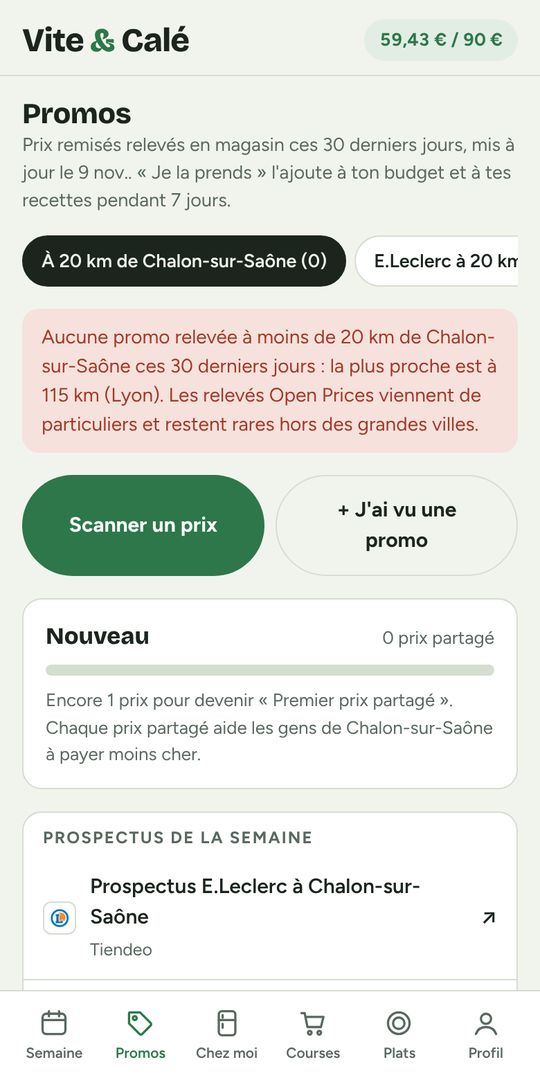
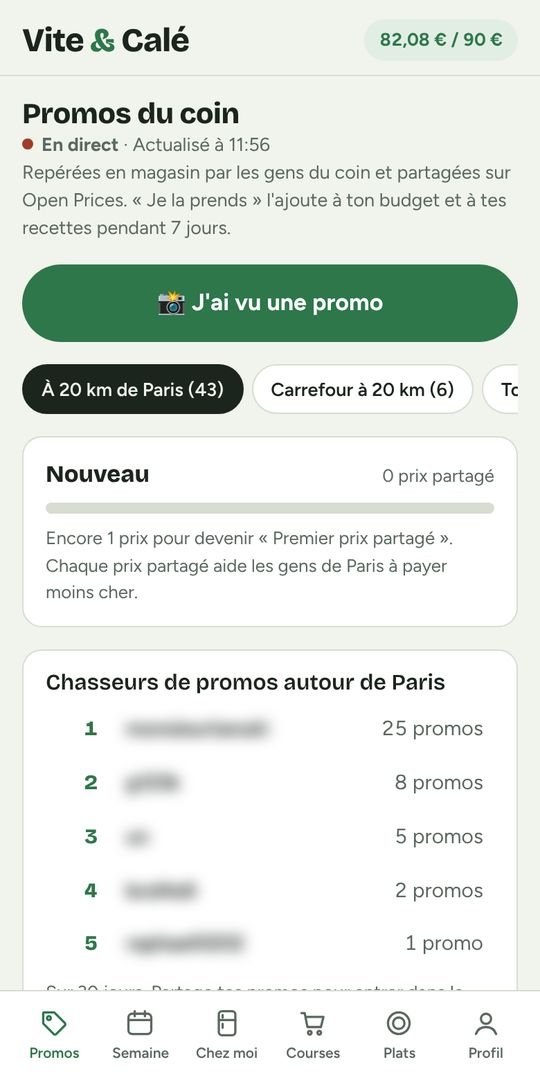
Vite & Calé : partager une promo, inviter ses voisins, page de présentation sur les promos du coin
- Bouton « Partager » sur chaque promo (feuille de partage du téléphone,
  sinon WhatsApp) et « Inviter mes voisins » dans l'onglet Promos.
- Page decouvrir/ réécrite autour des promos repérées par les gens du
  coin, nouvelles captures (pseudos floutés), FAQ sur le partage.

Claude-Session: https://claude.ai/code/session_014T4vfuEkBEnQ5La98L4DQG

diff --git a/vite-et-cale/decouvrir/index.html b/vite-et-cale/decouvrir/index.html
@@ -3,12 +3,12 @@
 <head>
 <meta charset="utf-8">
 <meta name="viewport" content="width=device-width, initial-scale=1, viewport-fit=cover">
-<title>Vite & Calé, bien manger sans se ruiner</title>
-<meta name="description" content="Ta semaine de repas en 1 minute, au prix de ton magasin, dans ton budget. Gratuit, sans compte, en bêta.">
+<title>Vite & Calé, les promos du coin</title>
+<meta name="description" content="Les promos repérées en magasin par les gens du coin, en direct, et ta semaine de repas qui en profite. Gratuit, sans pub, en bêta.">
 <meta name="theme-color" content="#2D774A">
-<meta property="og:title" content="Vite & Calé, bien manger sans se ruiner">
-<meta property="og:description" content="Ta semaine de repas en 1 minute, au prix de ton magasin, dans ton budget. Gratuit, sans compte.">
-<meta property="og:image" content="https://woidih-prog.github.io/copilot/vite-et-cale/decouvrir/img/semaine.jpg">
+<meta property="og:title" content="Vite & Calé, les promos du coin">
+<meta property="og:description" content="Les promos repérées par les gens du coin, en direct, et tes repas qui en profitent. Gratuit, sans pub.">
+<meta property="og:image" content="https://woidih-prog.github.io/copilot/vite-et-cale/decouvrir/img/promos.jpg">
 <meta property="og:type" content="website">
 <link rel="icon" href="../icon-192.png">
 <link rel="apple-touch-icon" href="../icon-192.png">
@@ -136,8 +136,8 @@ footer{padding:40px 0 56px;border-top:1px solid var(--line);margin-top:40px;font
 <main>
 <div class="hero">
   <div class="txt">
-    <h1>Bien manger toute la semaine, <span class="amp">sans dépasser ton budget.</span></h1>
-    <p class="lead">Tu donnes ton magasin et ton budget. En une minute, Vite &amp; Calé te prépare les repas de la semaine, les recettes et la liste de courses au bon prix.</p>
+    <h1>Les promos repérées par les gens du coin. <span class="amp">Et tes repas qui en profitent.</span></h1>
+    <p class="lead">Quelqu'un voit une promo en rayon, il la partage : tout le monde autour la voit tout de suite. Et Vite &amp; Calé s'en sert pour te préparer les repas de la semaine dans ton budget.</p>
     <div class="ctas">
       <a class="btn btn-main" href="../">Essayer l'appli</a>
       <a class="btn btn-ghost" href="#installer">L'installer sur mon téléphone</a>
@@ -146,18 +146,18 @@ footer{padding:40px 0 56px;border-top:1px solid var(--line);margin-top:40px;font
       <li>Gratuit</li><li>Sans compte</li><li>Sans pub</li><li>Rien à télécharger</li>
     </ul>
   </div>
-  <div class="phone"><img src="img/semaine.jpg" width="540" height="1080" alt="L'écran Semaine : 7 jours de repas, le coût de chaque jour et le total sous le budget."></div>
+  <div class="phone"><img src="img/promos.jpg" width="540" height="1080" alt="L'écran Promos du coin : en direct, le bouton J'ai vu une promo et le classement des chasseurs de promos."></div>
 </div>
 
 <section aria-labelledby="t-pb">
   <div class="head">
-    <h2 id="t-pb">« Qu'est-ce qu'on mange ce soir ? »</h2>
-    <p class="muted">La question revient tous les jours. On finit par acheter les mêmes choses, trop cher, ou par commander. Vite &amp; Calé règle ça une fois pour toute la semaine.</p>
+    <h2 id="t-pb">Les bonnes promos, c'est en rayon qu'on les voit.</h2>
+    <p class="muted">Les prospectus ne disent pas ce qui reste vraiment en magasin, ni les petits prix de date courte. Les gens qui font leurs courses, si. Vite &amp; Calé leur donne un endroit pour se les partager.</p>
   </div>
   <div class="chiffres">
-    <div class="chiffre"><b>1 min</b>pour avoir 7 jours de repas variés</div>
+    <div class="chiffre"><b>En direct</b>une promo partagée apparaît tout de suite chez les gens du coin</div>
     <div class="chiffre"><b>100 € = 100 €</b>le budget que tu fixes n'est jamais dépassé</div>
-    <div class="chiffre"><b>75 recettes</b>expliquées pas à pas, en 3 étapes</div>
+    <div class="chiffre"><b>1 min</b>pour avoir 7 jours de repas variés, recettes et liste de courses</div>
   </div>
 </section>
 
@@ -166,12 +166,12 @@ footer{padding:40px 0 56px;border-top:1px solid var(--line);margin-top:40px;font
     <h2 id="t-feat">Ce que fait l'appli</h2>
   </div>
   <div class="feats">
-    <div class="feat"><div class="ico" aria-hidden="true">🗓</div><h3>Ta semaine toute prête</h3><p class="muted">Petit-déj, déjeuner, dîner et goûter. Jamais deux fois le même plat d'affilée, et tu changes ce qui ne te plaît pas d'un geste.</p></div>
-    <div class="feat"><div class="ico" aria-hidden="true">🏷</div><h3>Les prix de ton magasin</h3><p class="muted">Leclerc, Lidl, Carrefour, Intermarché, Auchan… L'appli calcule avec de vrais prix relevés en magasin.</p></div>
-    <div class="feat"><div class="ico" aria-hidden="true">🛒</div><h3>La liste de courses</h3><p class="muted">Tout est regroupé par rayon, avec les quantités justes. Ce que tu as déjà dans ton frigo est retiré.</p></div>
-    <div class="feat"><div class="ico" aria-hidden="true">🔥</div><h3>Les promos du coin, en direct</h3><p class="muted">Repérées en magasin par les gens autour de toi. Tu confirmes d'un 👍, tu partages les tiennes en photo, et ta semaine en profite.</p></div>
-    <div class="feat"><div class="ico" aria-hidden="true">🍲</div><h3>Des plats qu'on mange vraiment</h3><p class="muted">Cuisine de France, du Maghreb, des Antilles, d'Afrique, d'Italie… Tu choisis tes goûts, tes allergies et ce que tu ne manges pas.</p></div>
-    <div class="feat"><div class="ico" aria-hidden="true">⏱</div><h3>Adapté à ta cuisine</h3><p class="muted">Pressé ou pas, four, plaques, micro-ondes ou air fryer : les recettes s'adaptent à ton temps et à ton matériel.</p></div>
+    <div class="feat"><div class="ico" aria-hidden="true">📸</div><h3>Tu vois une promo ? Tu la partages</h3><p class="muted">Une photo de l'étiquette, le prix, et c'est envoyé. Les gens autour la voient aussitôt, avec l'heure et le magasin.</p></div>
+    <div class="feat"><div class="ico" aria-hidden="true">👍</div><h3>Toujours là ?</h3><p class="muted">Un 👍 pour confirmer qu'elle y est encore, un 👎 si elle est finie. On sait combien de personnes l'ont vue.</p></div>
+    <div class="feat"><div class="ico" aria-hidden="true">🏆</div><h3>Les chasseurs de promos du coin</h3><p class="muted">Un classement de celles et ceux qui partagent le plus. Et un bouton pour inviter tes voisins.</p></div>
+    <div class="feat"><div class="ico" aria-hidden="true">🗓</div><h3>Ta semaine en profite</h3><p class="muted">L'appli prépare petit-déj, déjeuner, dîner et goûter dans ton budget, et prend en compte les promos du coin quand elles font baisser le total.</p></div>
+    <div class="feat"><div class="ico" aria-hidden="true">🛒</div><h3>La liste de courses</h3><p class="muted">Rangée par rayon, avec les quantités justes et les prix de ton magasin. Ce que tu as déjà chez toi est retiré.</p></div>
+    <div class="feat"><div class="ico" aria-hidden="true">🍲</div><h3>Des plats qu'on mange vraiment</h3><p class="muted">Cuisine d'ici, du Maghreb, des Antilles, d'Afrique, de La Réunion… expliquée pas à pas, adaptée à ton temps et à ton matériel.</p></div>
   </div>
 </section>
 
@@ -181,10 +181,10 @@ footer{padding:40px 0 56px;border-top:1px solid var(--line);margin-top:40px;font
     <p class="muted">Fais glisser pour voir les écrans.</p>
   </div>
   <div class="galerie">
+    <figure><img src="img/communaute.jpg" width="540" height="1080" loading="lazy" alt="Cartes de promos avec Toujours là ? et Partager"><figcaption>Toujours là ?</figcaption></figure>
     <figure><img src="img/semaine.jpg" width="540" height="1080" loading="lazy" alt="Écran Semaine"><figcaption>Ta semaine</figcaption></figure>
     <figure><img src="img/recette.jpg" width="540" height="1080" loading="lazy" alt="Écran d'une recette en 3 étapes"><figcaption>La recette pas à pas</figcaption></figure>
     <figure><img src="img/courses.jpg" width="540" height="1080" loading="lazy" alt="Écran de la liste de courses"><figcaption>La liste de courses</figcaption></figure>
-    <figure><img src="img/promos.jpg" width="540" height="1080" loading="lazy" alt="Écran des promos autour de chez soi"><figcaption>Les promos du coin</figcaption></figure>
     <figure><img src="img/plats.jpg" width="540" height="1080" loading="lazy" alt="Écran du catalogue de plats"><figcaption>Tous les plats</figcaption></figure>
   </div>
 </section>
@@ -258,6 +258,8 @@ footer{padding:40px 0 56px;border-top:1px solid var(--line);margin-top:40px;font
   <div class="head"><h2 id="t-faq">Questions fréquentes</h2></div>
   <details><summary>C'est vraiment gratuit ?</summary><p>Oui. Pas d'abonnement, pas de pub, pas de compte à créer.</p></details>
   <details><summary>Mes informations sont-elles envoyées quelque part ?</summary><p>Non. Ton profil, ton budget et ton frigo restent sur ton téléphone. Rien n'est envoyé à un serveur, sauf si tu choisis toi-même de partager un prix sur Open Prices.</p></details>
+  <details><summary>Comment partager une promo ?</summary><p>Touche « 📸 J'ai vu une promo », prends l'étiquette en photo et indique le prix. Pour la partager avec tout le monde, il faut un compte gratuit Open Food Facts : c'est la base ouverte où les promos sont rangées, et la photo sert de preuve contre les faux prix.</p></details>
+  <details><summary>Il n'y a pas encore de promos près de chez moi ?</summary><p>C'est normal au début : l'appli est toute neuve. Chaque promo que tu partages apparaît tout de suite pour les gens autour de toi. Invite tes voisins, plus on est, plus il y en a.</p></details>
   <details><summary>D'où viennent les prix ?</summary><p>D'Open Prices, une base libre où des milliers de personnes partagent les prix relevés en magasin. Ce sont des prix moyens pour l'enseigne, pas pour ton magasin précis : ils peuvent varier un peu. Tu peux aider en scannant tes produits dans l'appli.</p></details>
   <details><summary>Ça marche dans toute la France ?</summary><p>Oui, DOM compris. Les promos dépendent de ce qui a été relevé autour de ta ville.</p></details>
   <details><summary>Et si je n'aime pas un plat ?</summary><p>Touche « Changer » : l'appli en propose un autre qui garde ta semaine dans le budget.</p></details>

diff --git a/vite-et-cale/index.html b/vite-et-cale/index.html
@@ -220,6 +220,9 @@ nav.tabs .nb{position:absolute;top:7px;left:calc(50% + 6px);min-width:17px;heigh
 .chasse li.moi{background:var(--leaf-soft)}
 .chasse .rg{font-family:var(--f-display);font-weight:800;color:var(--leaf)}
 .promo-sem{display:grid;gap:6px;border-color:var(--warn)}
+.vote.part{margin-left:auto}
+.invite{display:flex;flex-wrap:wrap;align-items:center;justify-content:space-between;gap:10px}
+.invite b{flex:1 1 200px;font-size:14.5px}
 .promo-sem .btn{justify-self:start}
 .card{background:var(--surface);border:1px solid var(--line);border-radius:var(--r);padding:14px 16px;display:flex;flex-direction:column;gap:8px}
 .card ul,.card ol{margin:0;padding-left:20px}
@@ -1574,8 +1577,18 @@ function chasseurs(liste){ const c={}; liste.forEach(p=>{ if(p.par) c[p.par]=(c[
 function quiQuand(p){ const v=vuesPar(p), moi=ST.op&&p.par===ST.op.user;
   return '<span class="qui">'+(p.live&&p.cree&&Date.now()-Date.parse(p.cree)<6*3600e3?'<i class="direct">En direct</i>':"")+
     esc(ilYa(p))+(p.par?' · par <b>'+esc(moi?"toi":p.par)+'</b>':"")+(v.size>1?' · <span class="conf">✓ vue par '+v.size+' personnes</span>':"")+'</span>'; }
+/* Partager : la feuille de partage du téléphone, sinon WhatsApp. Chaque promo partagée fait connaître l'appli. */
+const URL_APPLI="https://woidih-prog.github.io/copilot/vite-et-cale/";
+function partage(texte){
+  const data={title:"Vite & Calé",text:texte,url:URL_APPLI};
+  if(navigator.share) return navigator.share(data).catch(()=>{});
+  window.open("https://wa.me/?text="+encodeURIComponent(texte+" "+URL_APPLI),"_blank","noopener");
+}
+function textePromo(p){ return "🏷 "+p.nom+" à "+eur(p.prix)+(p.avant?" au lieu de "+eur(p.avant):"")+" chez "+(p.magasin||"un magasin")+(p.ville?" ("+p.ville+")":"")+
+  ", repérée sur Vite & Calé, l'appli gratuite des promos du coin :"; }
 function votes(p){ return p.id&&p.osm?'<div class="votes"><span>Toujours là ?</span><button type="button" class="vote" data-oui="'+p.id+'">👍 Oui, je confirme</button>'+
-  '<button type="button" class="vote" data-non="'+p.id+'">👎 Plus là</button></div>':""; }
+  '<button type="button" class="vote" data-non="'+p.id+'">👎 Plus là</button>'+
+  '<button type="button" class="vote part" data-part="'+p.id+'" aria-label="Partager cette promo">↗ Partager</button></div>':""; }
 function vuePromos(v,P){
   cleanPromos(); ST.promosVues=Date.now(); ST.promosFinies=ST.promosFinies||{}; persist();
   const mag=magasin(P)[1], toutes=(PROMOS&&PROMOS.promos)||[], visibles=promosVisibles(P);
@@ -1623,6 +1636,7 @@ function vuePromos(v,P){
     blocContrib()+
     (top.length?'<div class="card chasse"><h3>Chasseurs de promos '+(V?"autour de "+esc(V.nom):"en France")+'</h3><ol>'+top.map(([n,c],i)=>'<li'+(ST.op&&ST.op.user===n?' class="moi"':"")+'><span class="rg num">'+(i+1)+'</span><b>'+esc(ST.op&&ST.op.user===n?n+" (toi)":n)+'</b><span class="num muted">'+c+' promo'+(c>1?"s":"")+'</span></li>').join("")+'</ol>'+
       '<span class="hint">Sur 30 jours. Partage tes promos pour entrer dans le classement.</span></div>':"")+
+    '<div class="card invite"><b>Plus on est nombreux, plus il y a de promos près de chez toi.</b><button type="button" class="btn small" id="inviter">Inviter mes voisins</button></div>'+
     (prises.length?'<div class="group"><h3>Tes promos en cours ('+prises.length+')</h3>'+prises.map(k=>{ const m=ST.mesPromos[k];
         return '<div class="mini">'+logoHTML(P.magasin,true)+'<span class="nm">'+esc(m.nom)+'<small>'+esc([(m.type||"Promo"),m.magasin,"jusqu'au "+dateCourte(m.jusqua)].filter(Boolean).join(" · "))+'</small></span>'+
           '<span class="pp num">'+(m.prix?eur(m.prix):"")+(m.avant?'<s>'+eur(m.avant)+'</s>':"")+'<button type="button" class="btn small ghost" data-lacher="'+k+'" style="margin-top:4px;font-family:var(--f-body);padding:5px 10px">Retirer</button></span></div>'; }).join("")+
@@ -1639,6 +1653,8 @@ function vuePromos(v,P){
   majHeureLive();
   if(Date.now()-LIVE_T>60000) chargePromosLive().then(n=>{ if(n&&ST.onglet==="promos"&&!$("scrim")) vuePromos(v,P); else majHeureLive(); });
   v.querySelectorAll("[data-oui]").forEach(b=>b.onclick=()=>{ const p=toutes.find(x=>String(x.id)===b.dataset.oui); if(p) ficheConfirmer(p); });
+  v.querySelectorAll("[data-part]").forEach(b=>b.onclick=()=>{ const p=toutes.find(x=>String(x.id)===b.dataset.part); if(p) partage(textePromo(p)); });
+  if($("inviter")) $("inviter").onclick=()=>partage("Je partage les promos que je vois en magasin sur Vite & Calé : c'est gratuit, sans pub, et ça fait aussi les repas de la semaine dans ton budget. Rejoins-moi, plus on est, plus il y a de promos près de chez nous :");
   v.querySelectorAll("[data-non]").forEach(b=>b.onclick=()=>{ ST.promosFinies[b.dataset.non]=AUJ; persist(); vuePromos(v,P); toast("Merci, promo masquée."); });
   v.querySelectorAll("[data-fp]").forEach(b=>b.onclick=()=>{ST.filtrePromo=b.dataset.fp;persist();vuePromos(v,P);});
   $("nouvellePromo").onclick=ficheNouvellePromo;

diff --git a/vite-et-cale/sw.js b/vite-et-cale/sw.js
@@ -1,6 +1,6 @@
 /* Vite & Calé : l'appli marche hors connexion une fois ouverte une première fois,
    et se met à jour toute seule dès qu'une nouvelle version est en ligne. */
-const CACHE = "vite-et-cale-v20";
+const CACHE = "vite-et-cale-v21";
 const FICHIERS = ["./", "./index.html", "./recettes.js", "./prix.json", "./promos.json", "./manifest.json", "./icon-192.png", "./icon-512.png", "./icon-maskable.png"];
 
 self.addEventListener("install", e => {

diff --git a/vite-et-cale/README.md b/vite-et-cale/README.md
@@ -13,6 +13,7 @@ Une seule page (`index.html`), sans serveur ni compte : le profil, la semaine et
 - **Promos** : prix remisés relevés en magasin ces 30 derniers jours (Open Prices), dans un rayon de 5 à 50 km autour de sa ville (ou de son arrondissement à Paris, Lyon et Marseille), chez son enseigne ou partout. Ceux qui portent sur un ingrédient de l'appli sont mis en avant ; « Je la prends » utilise la promo pour le budget et les recettes pendant 7 jours.
 - **Promos en direct** : en plus de `promos.json` (refait chaque jour), l'appli lit directement Open Prices à l'ouverture puis toutes les minutes : une promo partagée apparaît tout de suite chez les autres, avec l'heure (« il y a 20 min ») et le pseudo Open Prices de qui l'a vue. Les règles de rattachement aux ingrédients sont celles de `maj_prix.py`, livrées dans `promos.json` (`regles`). Un badge sur l'onglet Promos compte les nouvelles promos du coin.
 - **Toujours là ?** : « 👍 Oui, je confirme » renvoie la même promo à Open Prices pour aujourd'hui (photo de l'étiquette, compte Open Food Facts) ; « vue par N personnes » compte les pseudos différents qui l'ont relevée dans ce magasin. « 👎 Plus là » la masque seulement sur ce téléphone : Open Prices ne garde pas ce genre de vote.
+- **Partager** : chaque promo a un bouton « Partager » (feuille de partage du téléphone, sinon WhatsApp) avec le lien de l'appli, et l'onglet Promos propose « Inviter mes voisins ».
 - **Chasseurs de promos** : classement des pseudos qui ont partagé le plus de promos autour de sa ville sur 30 jours.
 - **Semaine et promos** : l'onglet Semaine propose les promos du coin moins chères que le prix habituel d'un ingrédient (« Refaire ma semaine avec ») ; les plats qui en profitent portent l'étiquette « promo ».
 - **Scanner un prix** : photo de l'étiquette en rayon ; le code-barres est lu sur la photo (BarcodeDetector du navigateur, sinon la bibliothèque ZXing, licence MIT, chargée à la demande depuis jsDelivr), le produit est retrouvé dans Open Food Facts et rattaché à un ingrédient. On saisit le prix (promo ou non) et on enchaîne les produits ; la photo n'est envoyée qu'une fois à Open Prices pour tous les prix qu'elle contient. « Juste une photo du rayon » l'envoie pour qu'Open Prices lise les étiquettes. Un compteur et des badges suivent les prix partagés.
